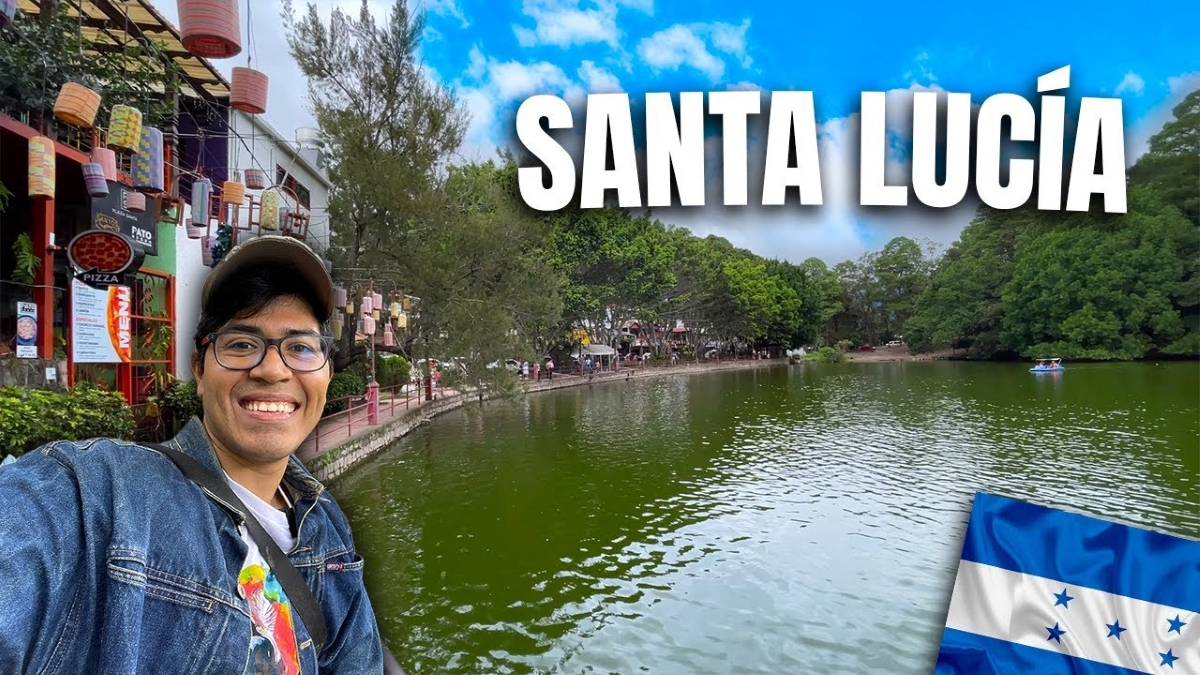
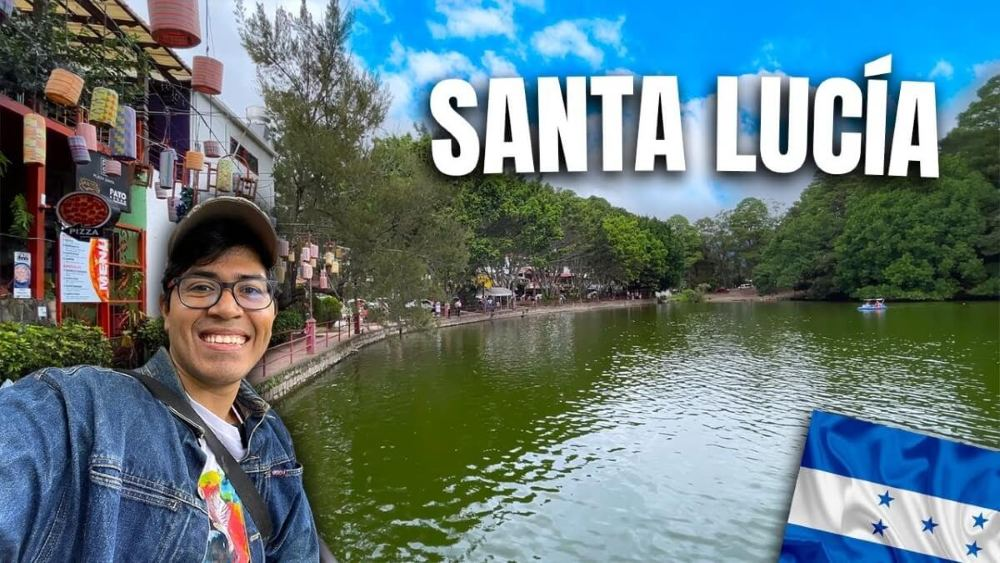
homepage

Changed region(s): [[0.589, 0.6643, 0.62, 0.6945], [0.217, 0.8757, 0.248, 0.9059]]

diff --git a/chamber/index.html b/chamber/index.html
@@ -3,36 +3,51 @@
 <head>
   <meta charset="UTF-8">
   <meta name="viewport" content="width=device-width, initial-scale=1.0">
-  <title>Santa Lucía Chamber of Commerce</title>
-  <meta name="description" content="Welcome to the Santa Lucía Chamber of Commerce.">
+
+  <!-- Meta tags -->
   <meta name="author" content="Franklin Rivas">
+  <meta name="description" content="Welcome to the Santa Lucía Chamber of Commerce, connecting local businesses and the community with opportunities, events, and growth.">
 
   <!-- Open Graph -->
   <meta property="og:title" content="Santa Lucía Chamber of Commerce">
-  <meta property="og:description" content="Connecting businesses and community in Santa Lucía.">
-  <meta property="og:image" content="images/og-image.png">
-  <meta property="og:url" content="https://frankjvip.github.io/chamber/index.html">
+  <meta property="og:description" content="Connecting businesses and community in Santa Lucía with opportunities, events, and growth.">
+  <meta property="og:image" content="https://frankjvip.github.io/wdd231/images/og-image.png">
 
-  <link rel="icon" href="images/favicon.ico" type="image/x-icon">
+  <!-- Favicon -->
+  <link rel="icon" href="images/favicon.ico">
+
+  <!-- Google Fonts -->
+  <link rel="preconnect" href="https://fonts.googleapis.com">
+  <link rel="preconnect" href="https://fonts.gstatic.com" crossorigin>
+  <link href="https://fonts.googleapis.com/css2?family=Roboto:wght@400;700&display=swap" rel="stylesheet">
 
   <!-- CSS -->
   <link rel="stylesheet" href="styles/small.css">
   <link rel="stylesheet" href="styles/large.css">
+
+  
+  <script src="scripts/weather.js" defer></script>
+  <script src="scripts/spotlights.js" defer></script>
+
+  <title>Santa Lucía Chamber of Commerce</title>
 </head>
 <body>
   <header>
-    <h1>Santa Lucía Chamber of Commerce</h1>
     <nav>
       <ul>
         <li><a href="index.html">Home</a></li>
-        <li><a href="directory.html">Directory</a></li>
-        <li><a href="join.html">Join</a></li>
+        <li><a href="chamber/index.html">Chamber</a></li>
+        <li><a href="final/index.html">Final Project</a></li>
+        <li><a href="https://github.com/frankjvip">GitHub</a></li>
+        <li><a href="https://www.linkedin.com/in/franklin-rivas">LinkedIn</a></li>
       </ul>
     </nav>
   </header>
 
   <main>
-    <!-- Hero -->
+    <h1>Santa Lucía Chamber of Commerce</h1>
+
+    <!-- Hero Section -->
     <section class="hero">
       <img src="images/hero.jpg" alt="Panoramic view of Santa Lucía">
       <div class="cta">
@@ -40,39 +55,30 @@
       </div>
     </section>
 
-    <!-- Events -->
-    <section class="events">
-      <h2>Current Events</h2>
-      <p>📅 Business Fair - May 25</p>
-      <p>📅 Digital Marketing Workshop - May 30</p>
+    <!-- Events Section -->
+    <section id="events">
+      <h2>Upcoming Events</h2>
+      <p>Stay tuned for local business events and community activities.</p>
     </section>
 
-    <!-- Weather -->
-    <section class="weather">
-      <h2>Weather in Santa Lucía</h2>
-      <div id="current-weather"></div>
+    <!-- Weather Section -->
+    <section id="weather">
+      <h2>Current Weather</h2>
+      <div id="weather-info"></div>
       <div id="forecast"></div>
     </section>
 
-    <!-- Spotlights -->
-    <section class="spotlights">
-      <h2>Featured Businesses</h2>
+    <!-- Spotlights Section -->
+    <section id="spotlights">
+      <h2>Member Spotlights</h2>
       <div id="spotlight-container"></div>
     </section>
   </main>
 
   <footer>
     <p>&copy; <span id="year"></span> Santa Lucía Chamber of Commerce</p>
-    <p>WDD 231 | Franklin Rivas</p>
-    <p>Last modification: <span id="lastModified"></span></p>
+    <p>Last Modified: <span id="lastModified"></span></p>
   </footer>
-
-  <!-- JS -->
-  <script src="scripts/weather.js"></script>
-  <script src="scripts/spotlights.js"></script>
-  <script>
-    document.getElementById("year").textContent = new Date().getFullYear();
-    document.getElementById("lastModified").textContent = document.lastModified;
-  </script>
 </body>
 </html>
+